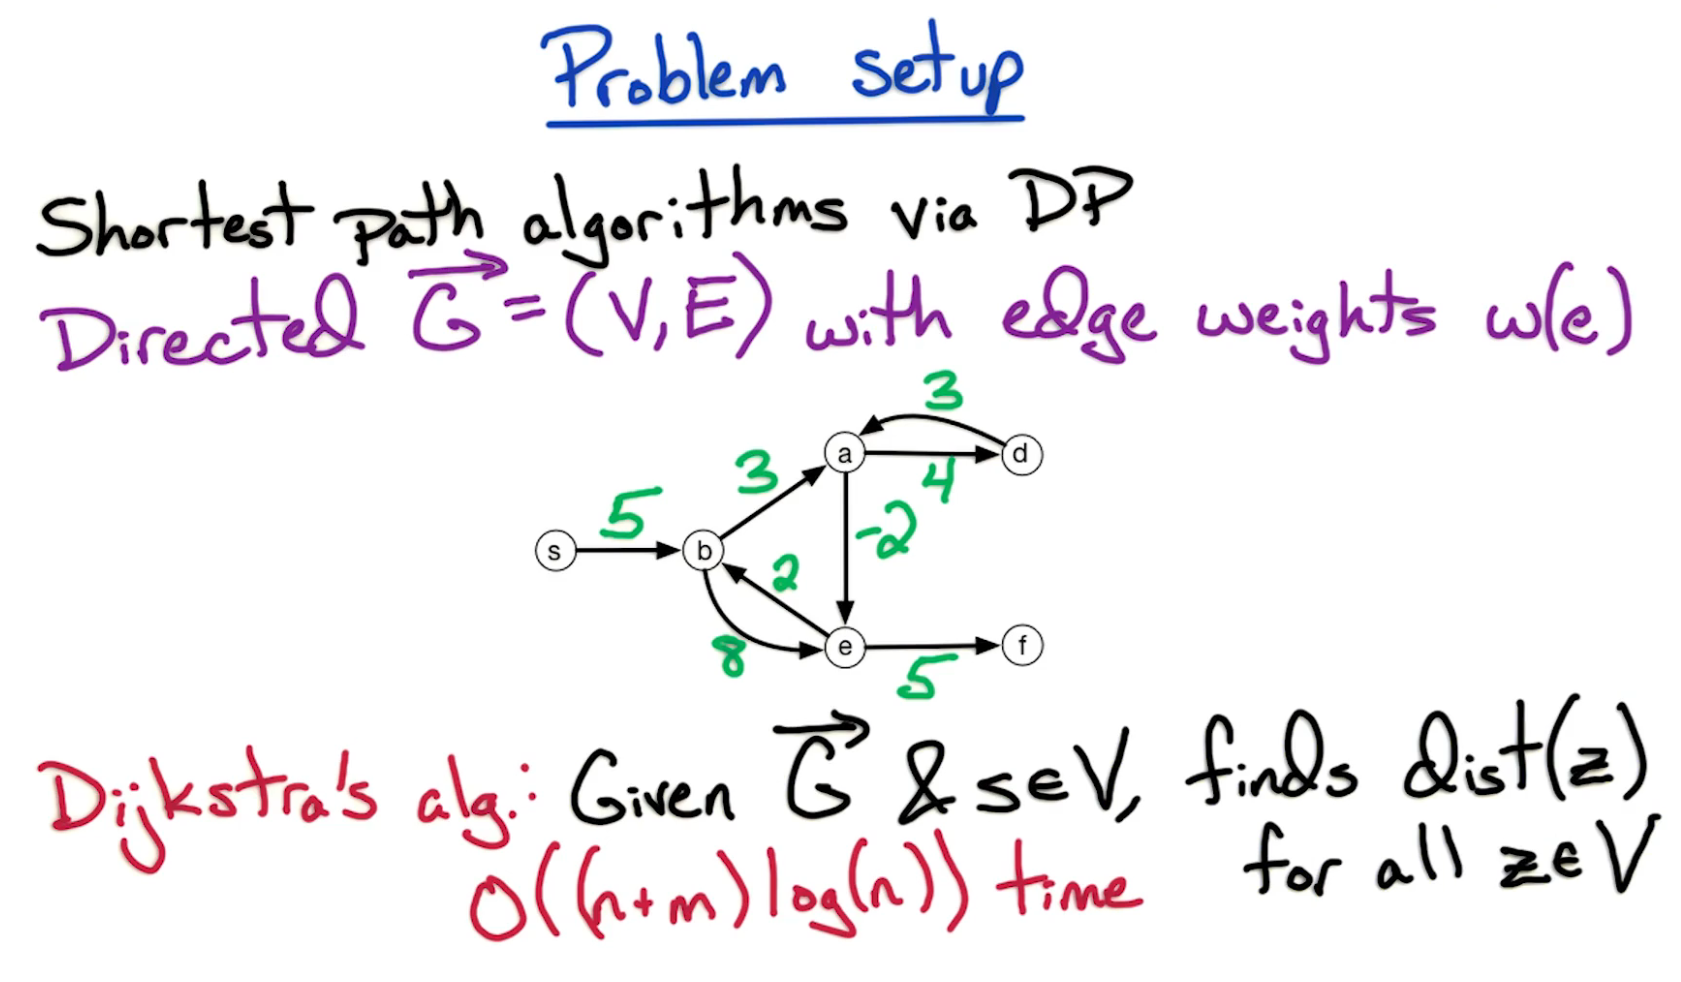
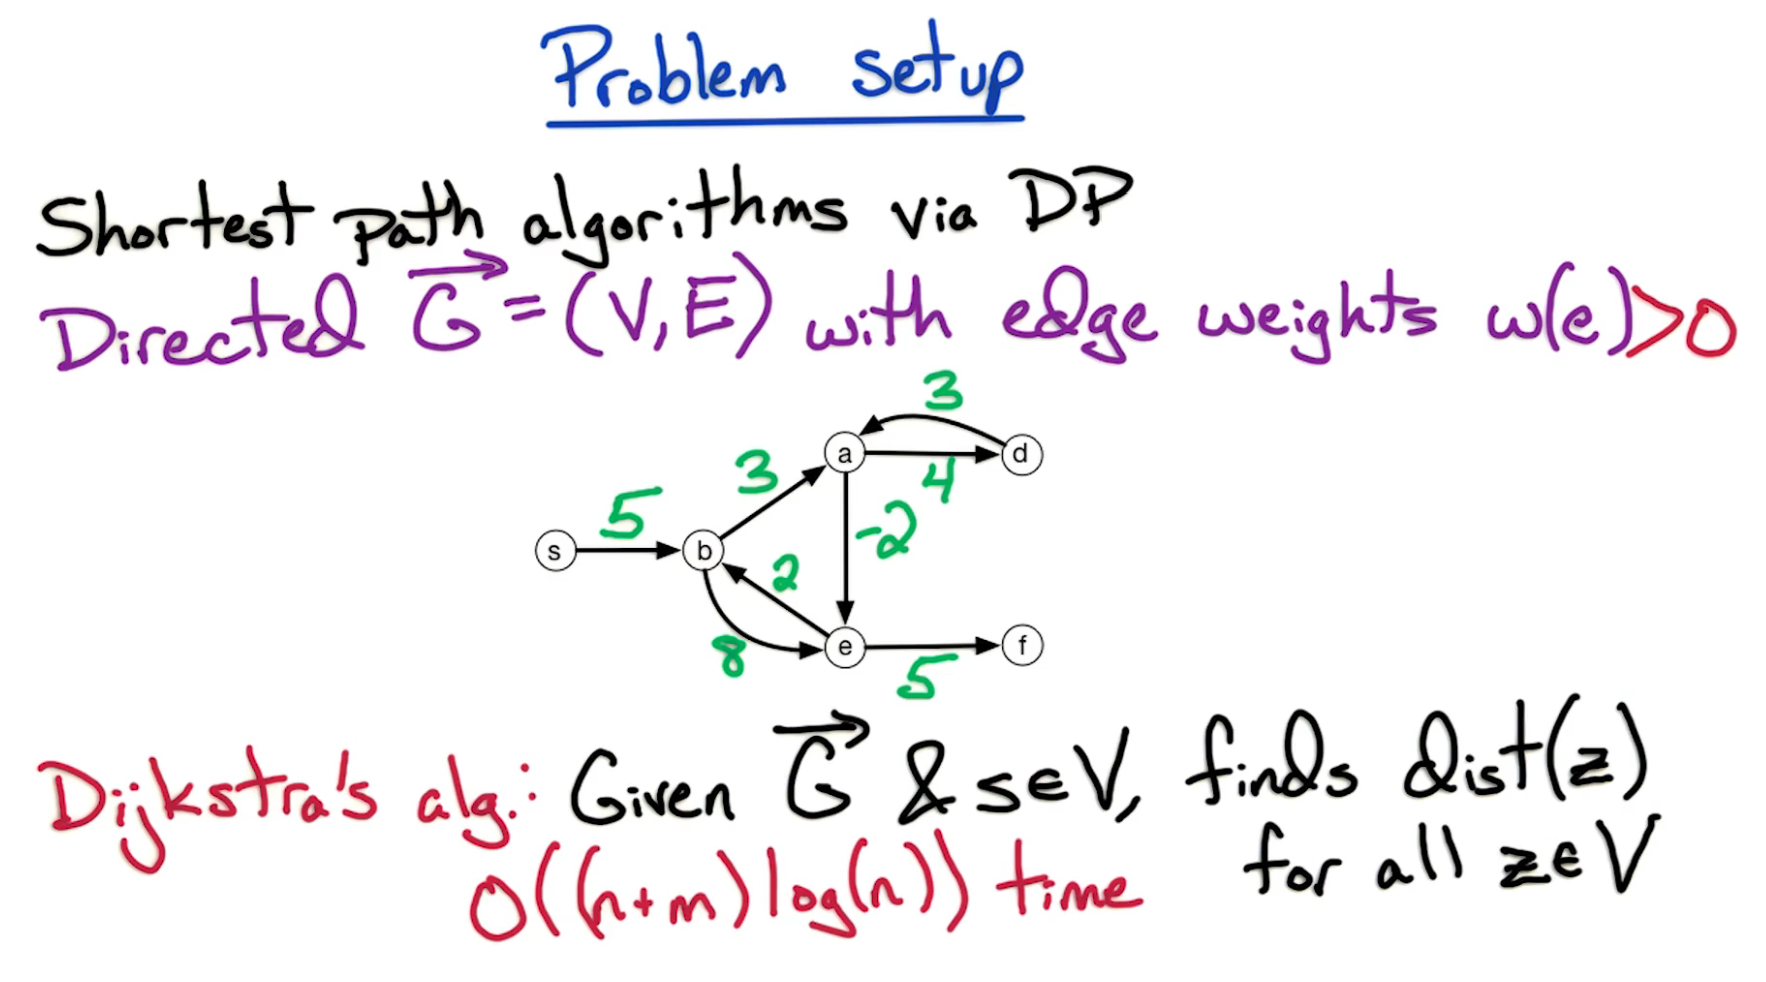
WIP CS 6515 02-DP2

Changed region(s): [[0.0309, 0.0, 0.9899, 0.9776]]

diff --git a/cs-6515/01-dynamic-programming.md b/cs-6515/01-dynamic-programming.md
@@ -1925,6 +1925,53 @@ The ***key*** to building proficiency in the dynamic programming algorithm techn
 
 ### 1. Problem Setup
 
+#### Directed Graphs
+
+This lesson will focus on several shortest-path problems, utilizing dynamic programming techniques to design fast/efficient algorithms for these problems. 
+
+<center>
+<img src="./assets/02-DP2-039.png" width="650">
+</center>
+
+The context for these problems is based around the notion of a **directed graph** $\vec G = (V,E)$ (where the arrow denotes a *directed* graph), having **edge weights** $w(e)$ .
+
+The figure shown above depicts such a representative directed graph, having six vertices and corresponding weighted edges. Furthermore, observe that *negative* weights are also permissible (e.g., $-2$ ), as well as anti-parallel edges (e.g., $a \rightarrow d$ and $a \leftarrow d$ , having different weights). Such anti-parallel edges are useful, because they allow to encode an otherwise undirected graph as a directed graph, by correspondingly replacing the (undirected) edge by an equivalent anti-parallel pair; in this manner, a directed graph gives rise to a more general problem than the undirected-graph counterpart.
+
+In the first problem, we have a designated/fixed ***starting vertex*** $s \in V$ , and attempt to determine the length of the ***shortest path*** from this starting vertex to every other vertex in the graph. To accomplish this, we define a function ${\rm{dist}}(z)$ as follows:
+
+> For $z \in V$ , ${\rm{dist}}(z)$ = length fo shortest path from $s$ to $z$
+
+where $z$ denotes each vertex in the graph.
+
+${\rm{dist}}(z)$ is defined for every vertex in the graph, giving rise to a corresponding array of length $n$ (i.e., for $n$ total vertices in $V$ ). Therefore, the goal is to compute this array.
+
+In this particular example, this can be determined by inspection as follows:
+
+| $z$ | ${\rm{dist}}(z)$ |
+|:--:|:--:|
+| $s$ | $0$ |
+| $b$ | $5$ |
+| $a$ | $8$ |
+| $e$ | $6$ |
+| $d$ | $12$ |
+| $f$ | $11$ |
+
+#### Dijkstra's Algorithm
+
+<center>
+<img src="./assets/02-DP2-040.png" width="650">
+</center>
+
+The classical algorithm for this problem is **Dijkstra's algorithm**, which in its abbreviated form can be summarized as follows:
+
+> Given $\vec G$ and and $s \in V$ , finds ${\rm{dist}}(z)$ for all $z \in V$
+
+Dijkstra's algorithm works in a manner analogous to breadth-first search (BFS), exploring the graph in such a "layered" approach. Recall (cf. previous coursework) that breadth-first search (BFS), similarly to depth-first search (DFS), has a running time of $O(n+m)$ (linear) with respect to $n$ vertices and $m$ edges; however, due to weighting of the edges, Dijkstra's algorithm additionally requires a min-heap or priority queue data structure (with each requiring $O(\log (n))$ running time operations), therefore, with this added overhead, the total running time for Dijkstra's algorithm is $O((m+n) \log (n))$ in order to compute the resulting array for ${\rm{dist}}(z)$ .
+
+There is a notable ***limitation*** in Dijkstra's algorithm: It is strictly necessary that $w(e) > 0$ in order to use this algorithm for a given input graph. This is due to the fact that negative edge weights do not guarantee to converge on a correct solution as certain paths "short-circuit" via negative weights towards "shorter" paths.
+
+We wil next examine the more general problem which *does* allow for such negative weights to be present in the input graph.
+
 ### 2. Negative Weight Cycles
 
 ## 3-7. Single-Source Shortest Path
